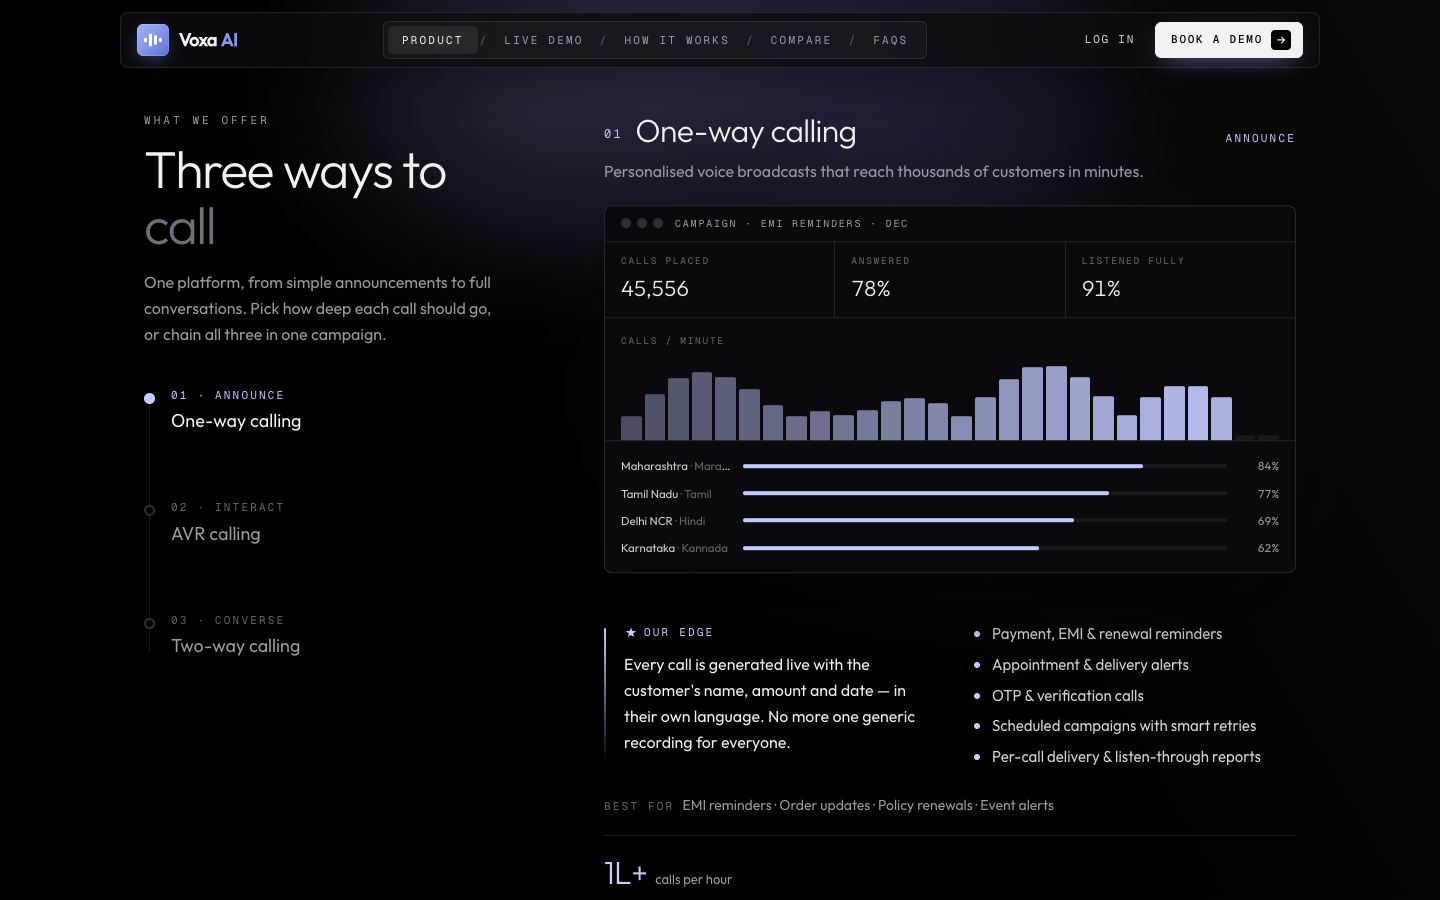
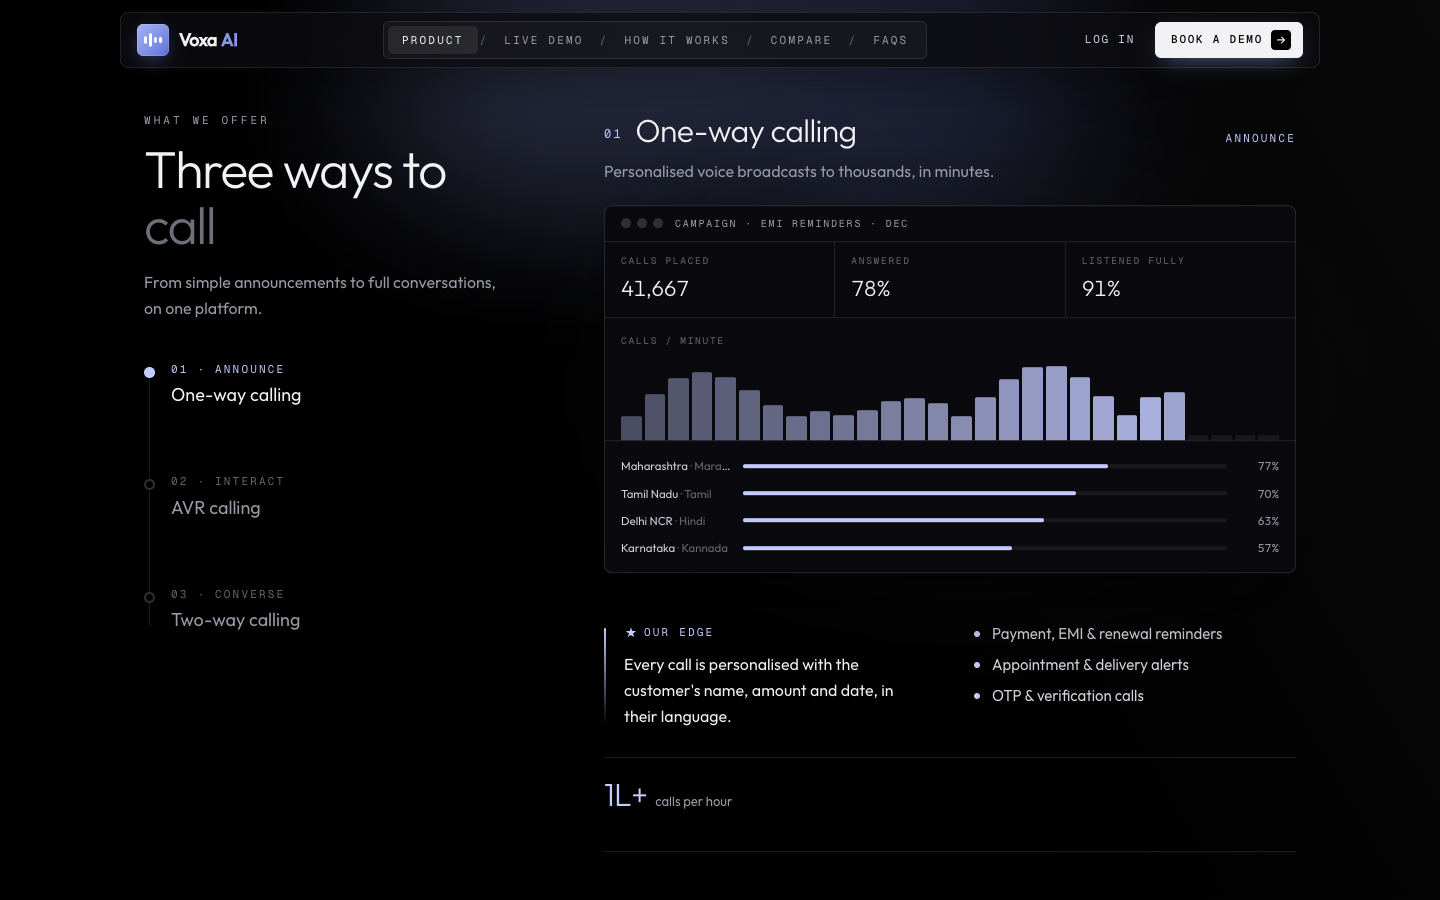
feat: update taglines and unique features for offerings to enhance clarity and engagement

diff --git a/components/Offerings.tsx b/components/Offerings.tsx
@@ -40,7 +40,7 @@ export default function Offerings() {
             Three ways to <span className="text-[#6e6f78]">call</span>
           </h2>
           <p className="mt-4 max-w-[360px] text-base leading-relaxed text-muted">
-            One platform, from simple announcements to full conversations. Pick how deep each call should go, or chain all three in one campaign.
+            From simple announcements to full conversations, on one platform.
           </p>
 
           <ol className="relative mt-10 hidden lg:block">
@@ -84,7 +84,7 @@ export default function Offerings() {
                 ref={(el) => {
                   refs.current[o.id] = el;
                 }}
-                className="scroll-mt-28 py-12 first:pt-0 last:pb-0"
+                className="scroll-mt-28 py-10 first:pt-0 last:pb-0"
               >
                 <div className="flex items-baseline justify-between gap-4">
                   <h3 className="text-[clamp(24px,2.6vw,32px)] leading-tight font-light tracking-[-0.02em]">
@@ -122,7 +122,7 @@ export default function Offerings() {
                     </div>
 
                     <ul className={`mt-7 flex flex-col gap-2.5 ${o.id === "avr" ? "" : "md:mt-0"}`}>
-                      {o.features.map((f) => (
+                      {o.features.slice(0, 3).map((f) => (
                         <li key={f} className="flex items-start gap-3 text-[15px] leading-snug text-body">
                           <span aria-hidden className="mt-[7px] size-1.5 shrink-0 rounded-full" style={{ background: o.accent }} />
                           {f}
@@ -130,11 +130,7 @@ export default function Offerings() {
                       ))}
                     </ul>
 
-                    <p className="mt-7 text-sm text-muted md:col-span-2">
-                      <span className="mr-2 font-mono text-[11px] tracking-[0.2em] text-faint uppercase">Best for</span>
-                      {o.useCases.join(" · ")}
-                    </p>
-                    <p className="mt-5 flex items-baseline gap-2 border-t border-line pt-5 md:col-span-2">
+                    <p className="mt-7 flex items-baseline gap-2 border-t border-line pt-5 md:col-span-2">
                       <span className="text-[32px] leading-none font-light tracking-tight" style={{ color: o.accent }}>
                         {o.stat.value}
                       </span>

diff --git a/data/offerings.ts b/data/offerings.ts
@@ -21,10 +21,10 @@ export const offerings: Offering[] = [
     step: "01",
     stage: "Announce",
     name: "One-way calling",
-    tagline: "Personalised voice broadcasts that reach thousands of customers in minutes.",
+    tagline: "Personalised voice broadcasts to thousands, in minutes.",
     accent: "#c3cbff",
     unique:
-      "Every call is generated live with the customer's name, amount and date — in their own language. No more one generic recording for everyone.",
+      "Every call is personalised with the customer's name, amount and date, in their language.",
     features: [
       "Payment, EMI & renewal reminders",
       "Appointment & delivery alerts",
@@ -40,10 +40,10 @@ export const offerings: Offering[] = [
     step: "02",
     stage: "Interact",
     name: "AVR calling",
-    tagline: "Automated voice response — customers press 1, 2 or 3 to act right on the call.",
+    tagline: "Customers press or say 1, 2 or 3 to act on the call.",
     accent: "#8898e7",
     unique:
-      "Speak or press — callers can simply say “one” or “reschedule” instead of hunting for keys, and every response syncs to your CRM instantly.",
+      "Callers can just say “reschedule” instead of pressing keys. Every answer syncs to your CRM.",
     features: [
       "Multi-level menus (press 1, 2, 3…)",
       "Keypad (DTMF) and speech input",
@@ -59,10 +59,10 @@ export const offerings: Offering[] = [
     step: "03",
     stage: "Converse",
     name: "Two-way calling",
-    tagline: "Human-like AI agents that listen, understand and talk back — end to end.",
+    tagline: "Human-like agents that listen, understand and reply.",
     accent: "#6f80e0",
     unique:
-      "Customers can interrupt mid-sentence or switch languages, and the agent adapts in under 500ms — then hands off to a human with full context if needed.",
+      "Handles interruptions and language switches in under 500ms, and hands off to a human when needed.",
     features: [
       "Natural voice in 15+ languages",
       "Answers questions & handles objections",
